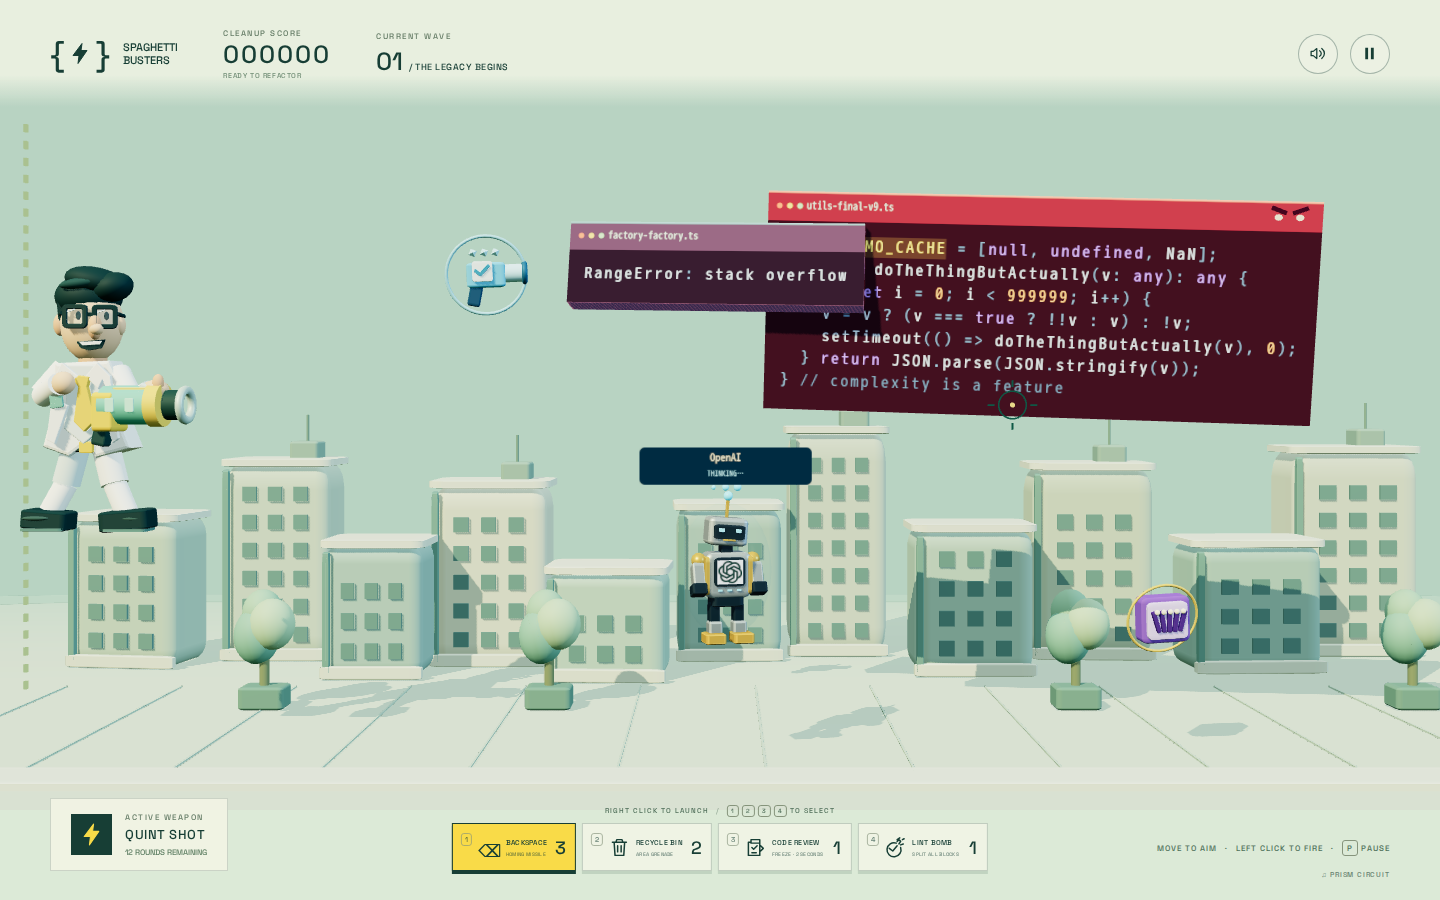
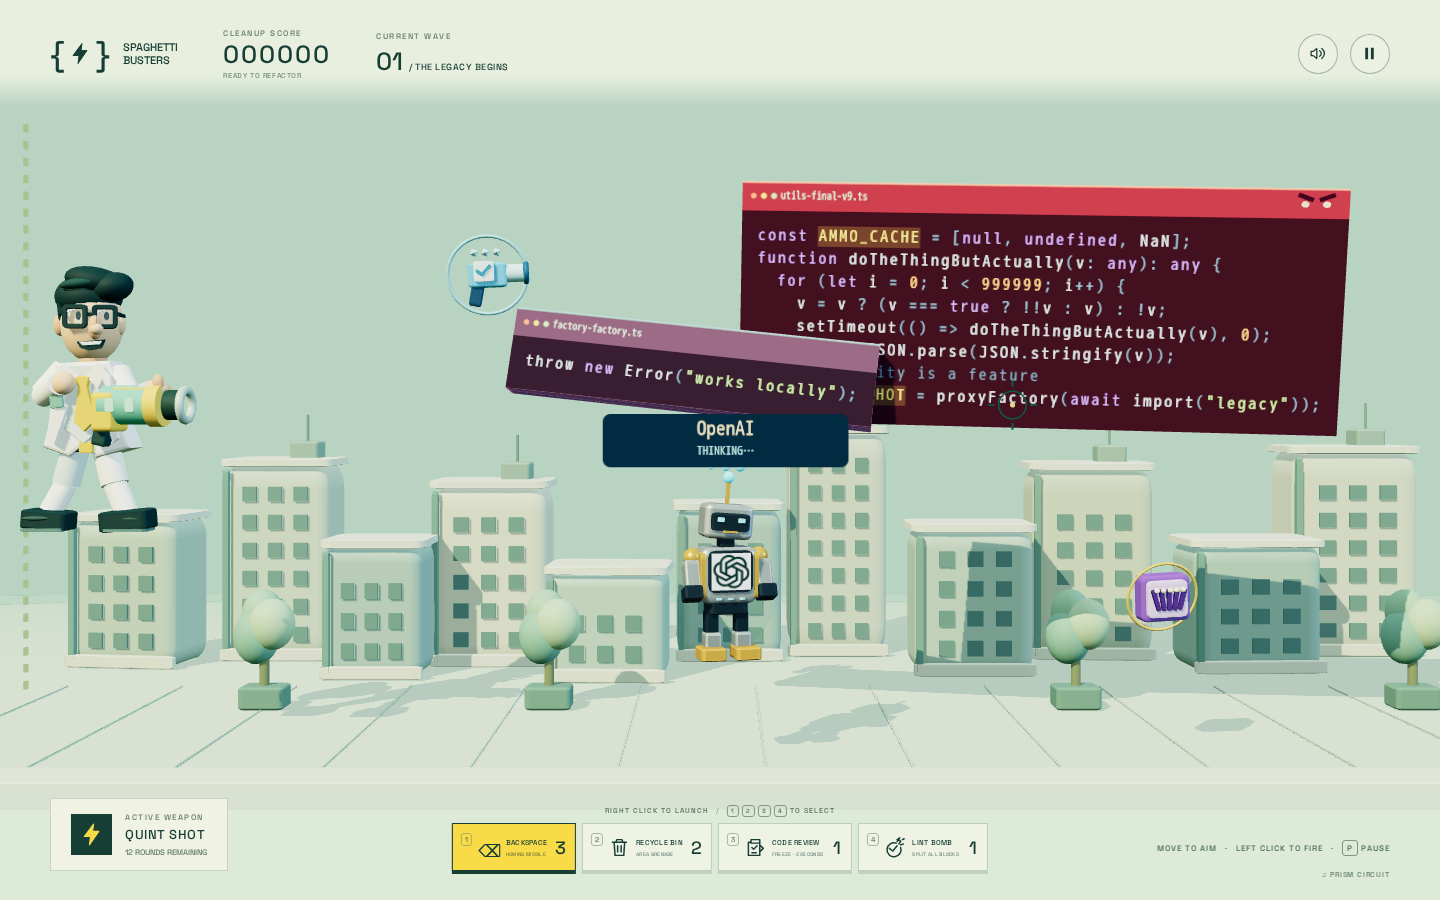
Enlarge AI robots and improve company badge readability

diff --git a/src/game/robot3d.ts b/src/game/robot3d.ts
@@ -8,7 +8,7 @@ const names:Record<Brand,string>={openai:'OpenAI',anthropic:'Anthropic',google:'
 /** Every robot owns its geometry, badge texture and label; no immortal resource cache. */
 export function createRobot(brand:Brand):THREE.Group {
   const group=new THREE.Group();group.name=`ai-code-robot-${brand}`;
-  group.scale.setScalar(.85);
+  group.scale.setScalar(1.05);
   const shell=new THREE.MeshStandardMaterial({color:'#e0ebee',metalness:.68,roughness:.31});
   const dark=new THREE.MeshStandardMaterial({color:'#233c4c',metalness:.5,roughness:.4});
   const gold=new THREE.MeshStandardMaterial({color:'#f8c355',metalness:.45,roughness:.28});
@@ -31,16 +31,16 @@ export function createRobot(brand:Brand):THREE.Group {
   box(head,gold,0,-8,18,13,2,3);
   box(head,gold,0,24,0,3,23,3);
   const antenna=new THREE.Mesh(new THREE.SphereGeometry(5,12,8),cyan);antenna.name='robot-antenna';antenna.position.set(0,37,0);head.add(antenna);
-  box(group,dark,0,4,17,33,30,3);
-  const badge=new THREE.Mesh(new THREE.PlaneGeometry(28,25),new THREE.MeshBasicMaterial({color:'#ffffff'}));badge.position.set(0,4,19.2);group.add(badge);
-  // Badges are original, locally hosted vector brand marks on an actual solid torso.
+  box(group,dark,0,4,17,38,35,3);
+  const badge=new THREE.Mesh(new THREE.PlaneGeometry(34,31),new THREE.MeshBasicMaterial({color:'#ffffff'}));badge.position.set(0,4,19.2);group.add(badge);
+  // Badges use locally bundled vector brand marks on an actual solid torso.
   const logo=new THREE.TextureLoader().load(`/assets/brands/${brand}.svg`);logo.colorSpace=THREE.SRGBColorSpace;
-  const mark=new THREE.Mesh(new THREE.PlaneGeometry(25,23),new THREE.MeshBasicMaterial({map:logo,transparent:true}));mark.position.set(0,4,19.5);group.add(mark);
-  for(let i=0;i<3;i++)box(group,cyan,-10+i*10,-15,17,5,2,2);
+  const mark=new THREE.Mesh(new THREE.PlaneGeometry(31,28),new THREE.MeshBasicMaterial({map:logo,transparent:true}));mark.position.set(0,4,19.5);group.add(mark);
+  for(let i=0;i<3;i++)box(group,cyan,-10+i*10,-19,17,5,2,2);
   const shield=new THREE.Mesh(new THREE.SphereGeometry(67,20,14),new THREE.MeshStandardMaterial({color:'#74cfe2',transparent:true,opacity:.075,roughness:.12,metalness:.3,depthWrite:false}));shield.name='robot-absorption-shield';shield.scale.set(.72,1.05,.7);shield.position.y=5;group.add(shield);
   const labelCanvas=document.createElement('canvas');labelCanvas.width=512;labelCanvas.height=110;
   const texture=new THREE.CanvasTexture(labelCanvas);texture.colorSpace=THREE.SRGBColorSpace;
-  const label=new THREE.Sprite(new THREE.SpriteMaterial({map:texture,depthTest:false}));label.name='robot-status';label.scale.set(180,39,1);label.position.set(0,113,0);group.add(label);
+  const label=new THREE.Sprite(new THREE.SpriteMaterial({map:texture,depthTest:false}));label.name='robot-status';label.scale.set(208,45,1);label.position.set(0,113,0);group.add(label);
   const thought=new THREE.Group();thought.name='robot-thinking';thought.position.set(0,91,0);group.add(thought);
   for(let i=0;i<3;i++){const dot=new THREE.Mesh(new THREE.SphereGeometry(3.4,10,8),cyan);dot.position.x=(i-1)*13;thought.add(dot);}
   group.userData.brand=brand;group.userData.shell=shell;group.userData.labelCanvas=labelCanvas;group.userData.labelTexture=texture;
@@ -67,8 +67,8 @@ export function animateRobot(group:THREE.Group,robot:RobotPose,frozen:boolean) {
   if(group.userData.labelState!==state) {
     group.userData.labelState=state;const canvas=group.userData.labelCanvas as HTMLCanvasElement,c=canvas.getContext('2d')!;
     c.clearRect(0,0,512,110);c.fillStyle='#173849';c.beginPath();c.roundRect(0,0,512,110,16);c.fill();
-    c.textAlign='center';c.textBaseline='middle';c.font='bold 31px monospace';c.fillStyle='#fff1be';c.fillText(names[robot.brand],256,32);
-    c.font='bold 22px monospace';c.fillStyle=frozen?'#9deaff':'#b4e7e7';c.fillText(state,256,77);
+    c.textAlign='center';c.textBaseline='middle';c.font='bold 40px monospace';c.fillStyle='#fff1be';c.fillText(names[robot.brand],256,32);
+    c.font='bold 24px monospace';c.fillStyle=frozen?'#9deaff':'#b4e7e7';c.fillText(state,256,77);
     (group.userData.labelTexture as THREE.CanvasTexture).needsUpdate=true;
   }
 }

diff --git a/src/game/simulation.ts b/src/game/simulation.ts
@@ -355,7 +355,7 @@ export class Simulation {
 
   private interceptRobot(ax: number, ay: number, bx: number, by: number): Robot | undefined {
     return [...this.robots].sort((a, b) => a.x - b.x).find(robot =>
-      this.segmentRectangle(ax - robot.x, ay - robot.y, bx - robot.x, by - robot.y, 41, 64));
+      this.segmentRectangle(ax - robot.x, ay - robot.y, bx - robot.x, by - robot.y, 51, 79));
   }
 
   private updateRobots(dt: number) {
